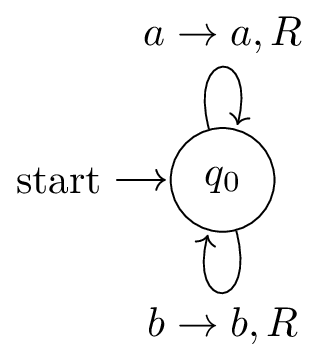
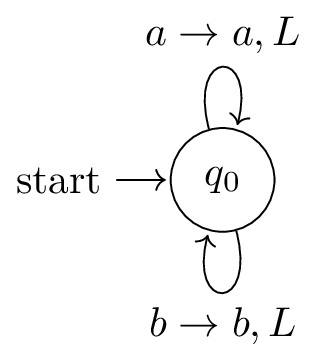
Update Example 3 in 6.1 and clarified multi-tape transition

diff --git a/intro-tm.md b/intro-tm.md
@@ -100,6 +100,13 @@ The TM processes $w$ as follows:
       - write $x$ to the cell under the tape head, move tape head in
         direction $d$, and move to state $r$
 
+::: {note} Moving tape head to the left
+
+If the tape head is already at the start (i.e. left end of the tape),
+moving it to the left keeps it at the start of the tape.
+
+:::
+
 ::: {important} Outcomes of Turing machine computation
 
 A subtle but important feature of Turing machines that finite and
@@ -194,7 +201,9 @@ With these definitions, it is now clear that:
 ::: {prf:example} while loop
 
 Here is an example of a TM that never halts on any input. The TM simply
-moves the tape head to the right forever.
+moves the tape head to the left forever. Note that moving the tape head
+to the left when its already at the start of the tape means it stays at
+the start of the tape.
 
 :::::: {figure width=100px} ./tm-non-halting.png
 

diff --git a/variants-tm.md b/variants-tm.md
@@ -36,8 +36,8 @@ A *multi-tape* Turing machine $M$ is one with an additional fixed number
 $k$ of tapes and tape heads. The additional tapes are called *work
 tapes*. Initially, all work tapes are blank and their tape heads are at
 the start of the work tapes. The transition function of $M$ depends on
-the symbols under all tape heads, and moves all tape heads
-simultaneously.
+the current state and the symbols under all tape heads, and in a single
+step, writes to every tape and moves every tape head simultaneously.
 
 :::
 
@@ -129,3 +129,5 @@ to each configuration. Whenever a new configuration needs to be added,
 it adds it to the end.
 
 :::
+
+## Lecture Prep
